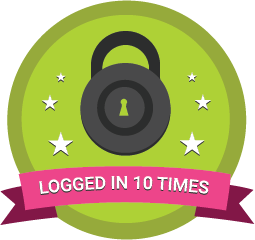
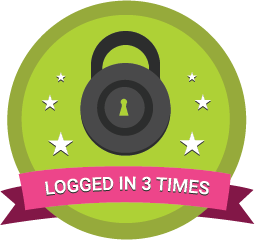
popups not quite working

Changed region(s): [[0.1373, 0.7292, 0.8235, 0.8167], [0.7412, 0.8458, 0.8235, 0.9042], [0.1647, 0.8458, 0.2471, 0.9042]]

diff --git a/Gift_The_Code/platforms/ios/www/index.html b/Gift_The_Code/platforms/ios/www/index.html
@@ -578,19 +578,21 @@
           <p>Integer mollis nulla id nibh elementum finibus. Maecenas eget fermentum ipsum. Sed sagittis condimentum nisl at tempus. Duis lacus libero, laoreet vitae ligula a, aliquet eleifend sapien. Nullam sodales viverra sodales. Nulla hendrerit condimentum dolor facilisis tempor. Donec at est malesuada, sagittis nisi et, accumsan enim.</p>
         </div>
       </div>
-      <div id="PopUpNewPal" style="position:absolute; display:none; width: 100% height: 100%; top: 0; left : 0;"><img src="img/prospercanada-23_new_pal_720.jpg"></div>
-    </div>
 
     <div id="PopUpNewPal" style="position:absolute; display:none; width: 100%; height: 100%; top: 0; left : 0; z-index: 10000">
-      <img src="img/prospercanada-23_new_pal_720.jpg" style="width: 100%; height: 100%">
+      <img src="img/levelUpNotification.jpg" style="width: 100%; height: 100%">
     </div>
     
     <div id="PopUpWelcomeBack" style="position:absolute; display:none; width: 100%; height: 100%; top: 0; left : 0; z-index: 10000">
-      <img src="img/mockups/ProsperCanada-19 Popup.jpg" style="width: 100%; height: 100%">
+      <img src="img/mockups/welcomeBackNotification.jpg" style="width: 100%; height: 100%">
     </div>
     
     <div id="PopUpReachFirstGoal" style="position:absolute; display:none; width: 100%; height: 100%; top: 0; left : 0; z-index: 10000">
       <img src="img/mockups/ProsperCanada-20 Popup2.jpg" style="width: 100%; height: 100%">
+    </div>
+
+    <div id="PopUpLoginBadge" style="position:absolute; display:none; width: 100%; height: 100%; top: 0; left : 0; z-index: 10000">
+      <img src="img/mockups/loginBadgeNotification.jpg" style="width: 100%; height: 100%">
     </div>
     
     <script type="text/javascript" src="js/database-setup.js"></script>
@@ -805,7 +807,7 @@
         }); 
       }
       
-      function ShowWelcomeback()
+      function ShowWelcomeBack()
       {
         $("#PopUpWelcomeBack").fadeIn(1000);
         $("#PopUpWelcomeBack").click(function(){
@@ -820,6 +822,15 @@
           $("#PopUpReachFirstGoal").fadeOut(1000);
         }); 
       }
+
+      function ShowLoginBadgeNotification() {
+        $("#PopUpLoginBadge").fadeIn(1000);
+        $("#PopUpLoginBadge").click(function(){
+          $("#PopUpLoginBadge").fadeOut(1000);
+        }); 
+      }
+
+      ShowWelcomeBack()
 
     </script>
   </body>

diff --git a/Gift_The_Code/www/index.html b/Gift_The_Code/www/index.html
@@ -578,19 +578,21 @@
           <p>Integer mollis nulla id nibh elementum finibus. Maecenas eget fermentum ipsum. Sed sagittis condimentum nisl at tempus. Duis lacus libero, laoreet vitae ligula a, aliquet eleifend sapien. Nullam sodales viverra sodales. Nulla hendrerit condimentum dolor facilisis tempor. Donec at est malesuada, sagittis nisi et, accumsan enim.</p>
         </div>
       </div>
-      <div id="PopUpNewPal" style="position:absolute; display:none; width: 100% height: 100%; top: 0; left : 0;"><img src="img/prospercanada-23_new_pal_720.jpg"></div>
-    </div>
 
     <div id="PopUpNewPal" style="position:absolute; display:none; width: 100%; height: 100%; top: 0; left : 0; z-index: 10000">
-      <img src="img/prospercanada-23_new_pal_720.jpg" style="width: 100%; height: 100%">
+      <img src="img/levelUpNotification.jpg" style="width: 100%; height: 100%">
     </div>
     
     <div id="PopUpWelcomeBack" style="position:absolute; display:none; width: 100%; height: 100%; top: 0; left : 0; z-index: 10000">
-      <img src="img/mockups/ProsperCanada-19 Popup.jpg" style="width: 100%; height: 100%">
+      <img src="img/mockups/welcomeBackNotification.jpg" style="width: 100%; height: 100%">
     </div>
     
     <div id="PopUpReachFirstGoal" style="position:absolute; display:none; width: 100%; height: 100%; top: 0; left : 0; z-index: 10000">
       <img src="img/mockups/ProsperCanada-20 Popup2.jpg" style="width: 100%; height: 100%">
+    </div>
+
+    <div id="PopUpLoginBadge" style="position:absolute; display:none; width: 100%; height: 100%; top: 0; left : 0; z-index: 10000">
+      <img src="img/mockups/loginBadgeNotification.jpg" style="width: 100%; height: 100%">
     </div>
     
     <script type="text/javascript" src="js/database-setup.js"></script>
@@ -805,7 +807,7 @@
         }); 
       }
       
-      function ShowWelcomeback()
+      function ShowWelcomeBack()
       {
         $("#PopUpWelcomeBack").fadeIn(1000);
         $("#PopUpWelcomeBack").click(function(){
@@ -820,6 +822,15 @@
           $("#PopUpReachFirstGoal").fadeOut(1000);
         }); 
       }
+
+      function ShowLoginBadgeNotification() {
+        $("#PopUpLoginBadge").fadeIn(1000);
+        $("#PopUpLoginBadge").click(function(){
+          $("#PopUpLoginBadge").fadeOut(1000);
+        }); 
+      }
+
+      ShowWelcomeBack()
 
     </script>
   </body>

diff --git a/Gift_The_Code/platforms/ios/www/js/badges.js b/Gift_The_Code/platforms/ios/www/js/badges.js
@@ -25,6 +25,7 @@ function Badges () {
     if (parseInt(loginCount) >= 3) {
       awardBadge('loginBadge', 'logging in three times', Date.now())
       awardPoints(150)
+      ShowLoginBadgeNotification()
       localStorage.setItem('loginCount', 0)
     }
   }
@@ -35,6 +36,7 @@ function Badges () {
         if (results.rows.length === 1) {
           awardBadge('firstGoalBadge', 'reaching your first goal', Date.now())
           awardPoints(200)
+          ShowFirstGoal()
         }
       })
     })

diff --git a/Gift_The_Code/www/js/badges.js b/Gift_The_Code/www/js/badges.js
@@ -25,6 +25,7 @@ function Badges () {
     if (parseInt(loginCount) >= 3) {
       awardBadge('loginBadge', 'logging in three times', Date.now())
       awardPoints(150)
+      ShowLoginBadgeNotification()
       localStorage.setItem('loginCount', 0)
     }
   }
@@ -35,6 +36,7 @@ function Badges () {
         if (results.rows.length === 1) {
           awardBadge('firstGoalBadge', 'reaching your first goal', Date.now())
           awardPoints(200)
+          ShowFirstGoal()
         }
       })
     })

diff --git a/Gift_The_Code/platforms/ios/www/js/levels.js b/Gift_The_Code/platforms/ios/www/js/levels.js
@@ -24,6 +24,7 @@ function Levels () {
     localStorage.setItem('staticPoints', 0)
     notification(message);
     spawnNewCreature()
+    ShowNewPal()
   }
 
   function spawnNewCreature() {

diff --git a/Gift_The_Code/www/js/levels.js b/Gift_The_Code/www/js/levels.js
@@ -24,6 +24,7 @@ function Levels () {
     localStorage.setItem('staticPoints', 0)
     notification(message);
     spawnNewCreature()
+    ShowNewPal()
   }
 
   function spawnNewCreature() {
